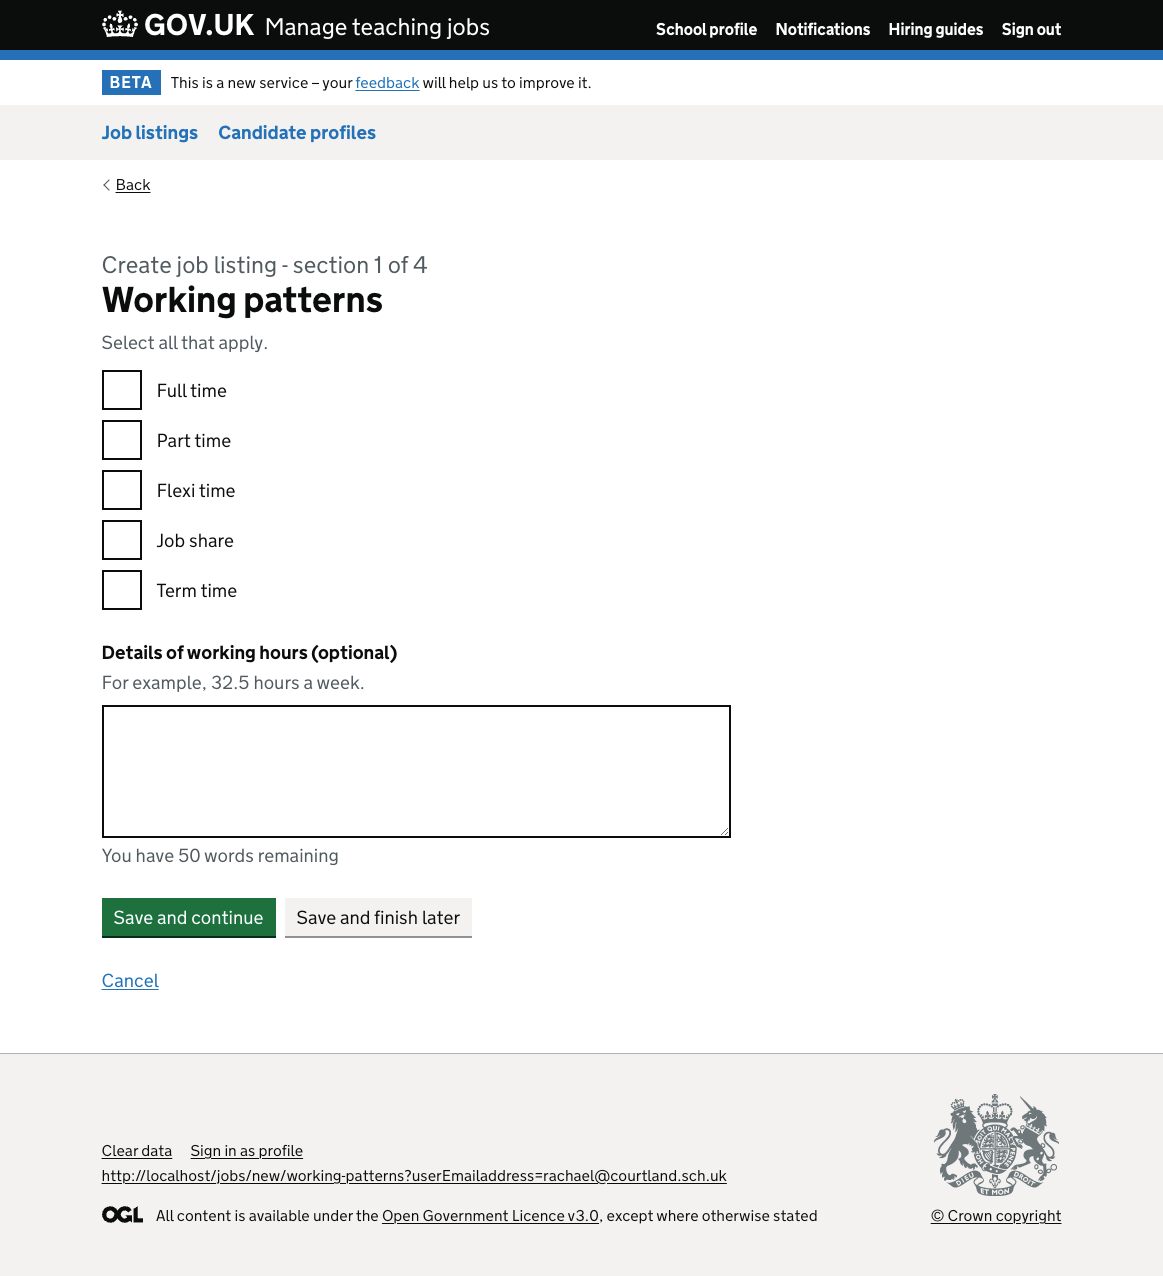
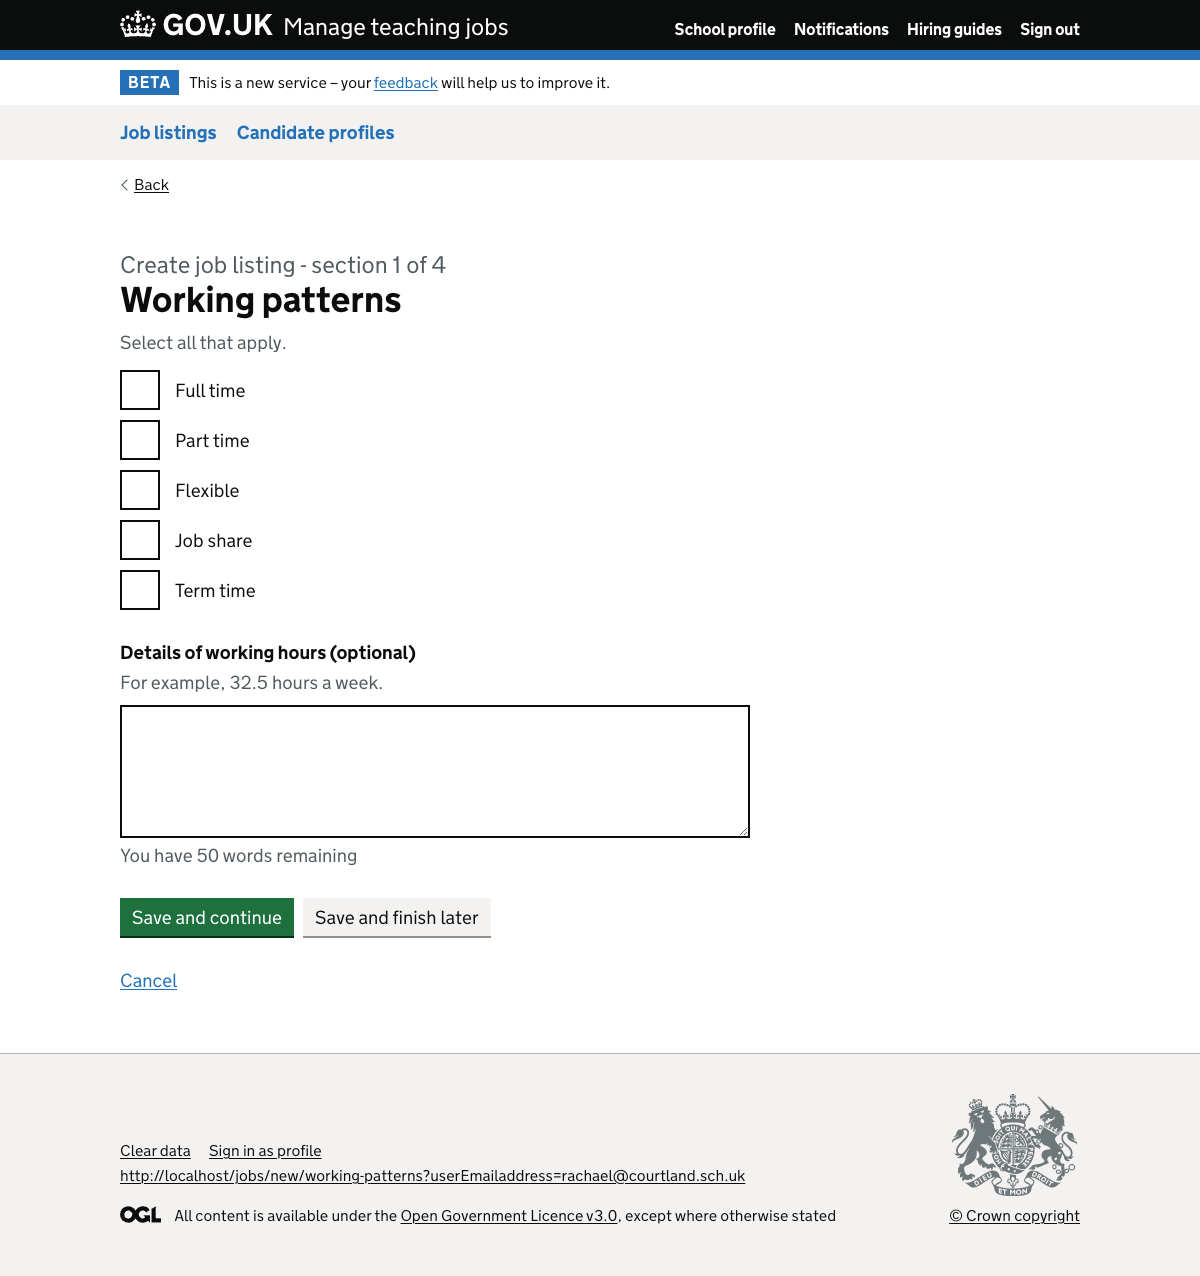
working patterns and invalidating locations from outside the UK posts are ready to review

diff --git a/app/posts/2024-02-28-adding-more-options-and-improving-the-design-of-the-working-patterns-page.md b/app/posts/2024-02-28-adding-more-options-and-improving-the-design-of-the-working-patterns-page.md
@@ -1,9 +1,10 @@
 ---
-title: Adding more options to the working patterns page
+title: Adding more working pattern options to jobs
 date: 2024-02-28
 tags:
   - HN001
   - HN002
+  - JN001
   
   - searching_for_a_job
   - hiring_staff
@@ -11,15 +12,17 @@ tags:
 
 Previously, hiring staff could only specify if a job at their school was full time or part time when listing a job.
 
-To try and help encourage flexible working in schools, hiring staff can now specify if any roles can offer:
+To try and help encourage flexible working in schools, hiring staff can now specify if any roles can offer these working patterns:
 
 - Full time
 - Part time
-- Flexi time
+- Flexible
 - Job share
-- Term time
+- Term time 
 
-Also, as part of a recent feedback workshop and feedback review, hiring staff found the working patterns page to be confusing because they were not sure what to add. The design has been simplifed with more specific hint text and labels to help aid people add specific information.
+Also, as part of a recent feedback workshop and feedback review, hiring staff found the working patterns page to be confusing because they were not sure what to add. The design has been simplifed with more specific hint text and labels to help aid people add the right information to the single textarea for additional details.
+
+The working patterns have also been added to the filters and relevant job adverts on the job search journey.
 
 ## User needs
 
@@ -29,7 +32,16 @@ Also, as part of a recent feedback workshop and feedback review, hiring staff fo
 {% from "screenshots/macro.njk" import appScreenshots with context %}
 {{ appScreenshots({
   items: [{
-    text: "Adding more options to the working patterns page and simplifying the layout",
+    text: "Adding more options to the working patterns page and simplifying the layout when hiring staff are listing a job",
     img: { src: "working-patterns.png" }
-  }]
+  },
+  {
+    text: "More working patterns can now be used as filters on the job search page",
+    img: { src: "working-pattern-filters.png" }
+  },
+  {
+    text: "More working patterns are now visible on job advert pages",
+    img: { src: "working-pattern-advert.png" }
+  }
+  ]
 }) }}
